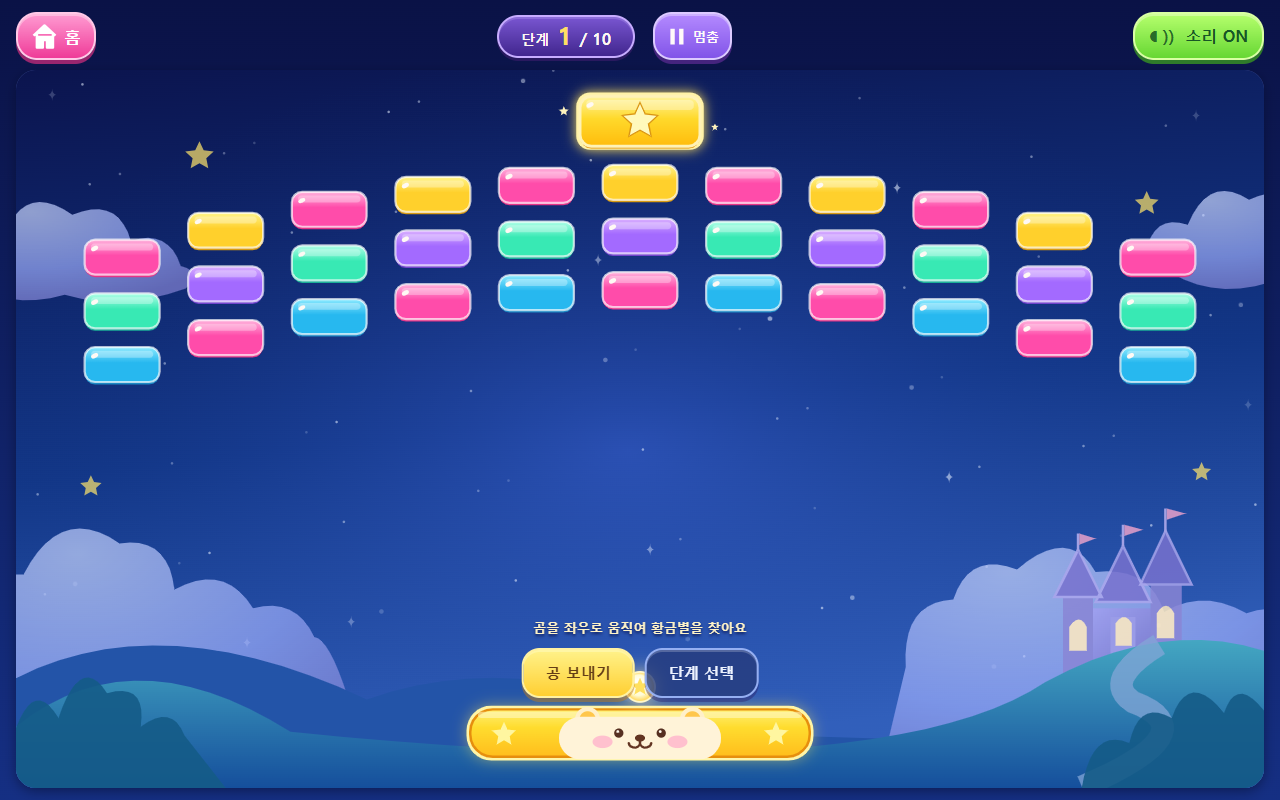
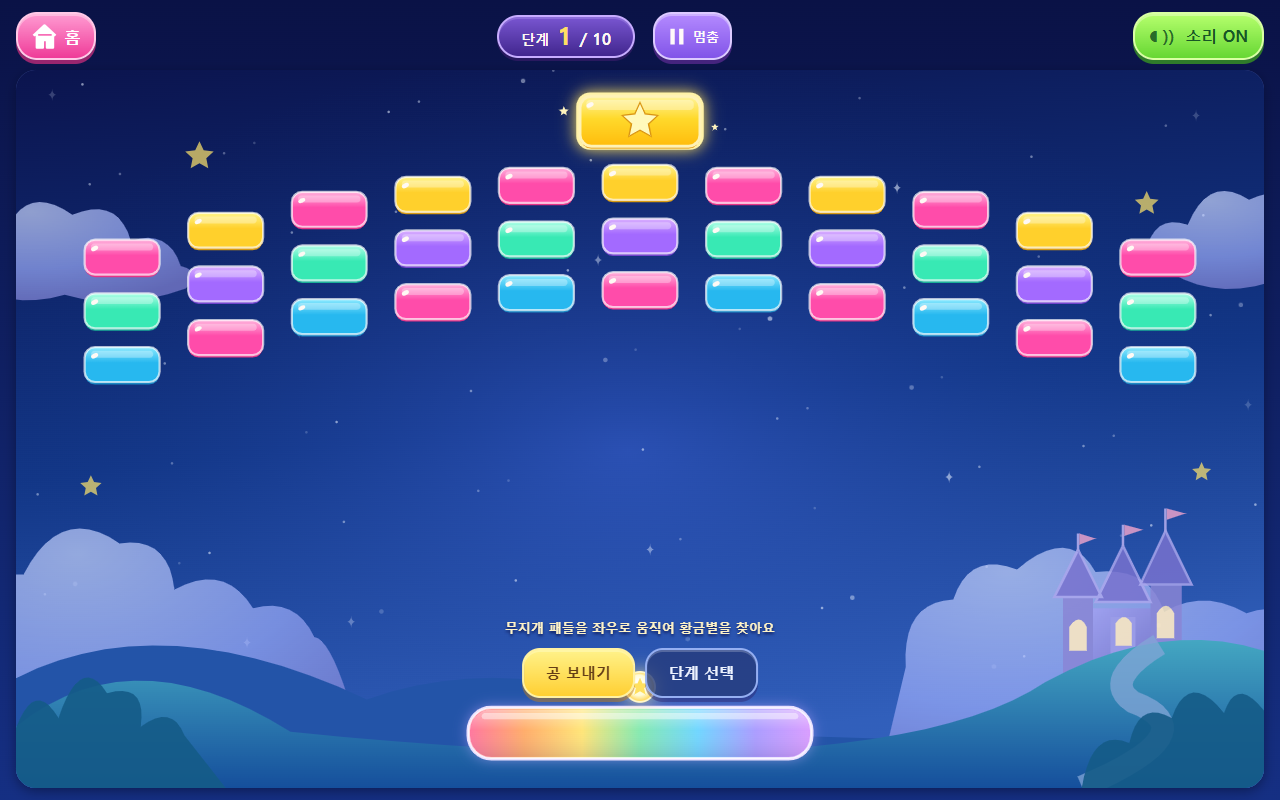
fix: mirror paddle bounce and use rainbow paddle

Changed region(s): [[0.3438, 0.875, 0.6562, 0.9688], [0.4062, 0.7812, 0.5938, 0.8125]]

diff --git a/src/games/brick-breaker/index.tsx b/src/games/brick-breaker/index.tsx
@@ -55,14 +55,14 @@ export default function BrickBreaker(){
  const stage=stages[active-1],toolbar=document.querySelector('.toolbar'),finished=active===stages.length&&phase==='cleared'
  return <section className="brick-game" aria-label="별빛 벽돌깨기">
  {toolbar&&createPortal(<div className="brick-toolbar"><span className="brick-stage-badge" aria-label={`현재 ${active}단계, 전체 ${stages.length}단계`}><span>단계</span> <strong>{active}</strong><small>/ {stages.length}</small></span><button className="brick-pause" onClick={pause} disabled={menu||phase==='cleared'} aria-label={phase==='paused'?'게임 재개':'일시정지'} aria-pressed={phase==='paused'}><svg viewBox="0 0 24 24" aria-hidden="true">{phase==='paused'?<path d="m7 3 15 9-15 9Z"/>:<path d="M5 3h5v18H5ZM15 3h5v18h-5Z"/>}</svg><span>{phase==='paused'?'계속':'멈춤'}</span></button></div>,toolbar)}
- <div className="brick-field" ref={host}><NightSky height={worldHeight}/><canvas ref={canvas} hidden={menu} tabIndex={menu?-1:0} role="application" aria-label={`${active}단계 ${stage.name}. 좌우 화살표로 곰을 움직이고 스페이스로 공을 보내요.`} aria-describedby="brick-instructions" data-stage={active} data-phase={phase} onPointerDown={down} onPointerMove={move} onPointerUp={up} onPointerCancel={e=>{if(drag.current?.id===e.pointerId)drag.current=null}} onKeyDown={e=>{if(['ArrowLeft','ArrowRight',' ','Escape'].includes(e.key)){e.preventDefault();if(e.key.startsWith('Arrow'))keys.current.add(e.key);else if(!e.repeat){if(e.key==='Escape'||engine.current.phase==='paused')pause();else sendBall()}}}} onKeyUp={e=>keys.current.delete(e.key)} onBlur={()=>keys.current.clear()}/>
+ <div className="brick-field" ref={host}><NightSky height={worldHeight}/><canvas ref={canvas} hidden={menu} tabIndex={menu?-1:0} role="application" aria-label={`${active}단계 ${stage.name}. 좌우 화살표로 무지개 패들을 움직이고 스페이스로 공을 보내요.`} aria-describedby="brick-instructions" data-stage={active} data-phase={phase} onPointerDown={down} onPointerMove={move} onPointerUp={up} onPointerCancel={e=>{if(drag.current?.id===e.pointerId)drag.current=null}} onKeyDown={e=>{if(['ArrowLeft','ArrowRight',' ','Escape'].includes(e.key)){e.preventDefault();if(e.key.startsWith('Arrow'))keys.current.add(e.key);else if(!e.repeat){if(e.key==='Escape'||engine.current.phase==='paused')pause();else sendBall()}}}} onKeyUp={e=>keys.current.delete(e.key)} onBlur={()=>keys.current.clear()}/>
  {menu?<div className="brick-selection"><header><div className="brick-logo-star"><Medal/></div><div><h1>별빛 벽돌깨기</h1><p>좋아하는 별빛길을 골라요</p></div></header><button autoFocus className="brick-primary brick-continue" onClick={()=>start(progress.current)}>{progress.completed.length===stages.length?'다시 별빛 여행':Object.values(progress.boards).some(ids=>ids.length)||progress.completed.length?'이어서 하기':'처음 시작하기'} · {progress.current}단계</button><div className="brick-stage-grid">{stages.map(s=><button key={s.id} className={'brick-stage-card'+(progress.completed.includes(s.id)?' completed':'')} onClick={()=>start(s.id)} aria-label={`${s.id}단계 ${s.name}${progress.completed.includes(s.id)?' · 완료':''}`}><span className="brick-card-number">{s.id}</span><Preview stage={s}/><strong>{s.name}</strong><small>{progress.completed.includes(s.id)?'별을 모았어요':s.difficulty}</small></button>)}</div><p className="brick-selection-note">황금별 벽돌을 맞히면 바로 완료! · 모든 단계를 골라 놀 수 있어요.</p>{!storageOk&&<p className="brick-storage-warning">지금은 기록을 저장할 수 없어요. 놀이는 계속할 수 있어요.</p>}</div>:
  <>
- {phase==='ready'&&<div className="brick-launch"><p>{misses?'괜찮아요! 한 번 더 통통!':'곰을 좌우로 움직여 황금별을 찾아요'}</p><div><button className="brick-primary" onClick={sendBall}>공 보내기</button><button className="brick-secondary" onClick={()=>setMenu(true)}>단계 선택</button></div></div>}
+ {phase==='ready'&&<div className="brick-launch"><p>{misses?'괜찮아요! 한 번 더 통통!':'무지개 패들을 좌우로 움직여 황금별을 찾아요'}</p><div><button className="brick-primary" onClick={sendBall}>공 보내기</button><button className="brick-secondary" onClick={()=>setMenu(true)}>단계 선택</button></div></div>}
  {phase==='paused'&&<div className="brick-shade"><div className="brick-dialog" onKeyDown={dialogKeys} role="dialog" aria-modal="true" aria-labelledby="brick-pause-title"><Medal/><h2 id="brick-pause-title">잠깐 쉬어 가요</h2><button autoFocus className="brick-primary" onClick={()=>{pause();canvas.current?.focus({preventScroll:true})}}>계속하기</button><button className="brick-secondary" onClick={()=>setMenu(true)}>단계 선택</button></div></div>}
  {phase==='cleared'&&<div className="brick-shade"><div className={'brick-dialog brick-celebration'+(finished?' finale':'')} onKeyDown={dialogKeys} role="dialog" aria-modal="true" aria-labelledby="brick-clear-title"><div className="brick-confetti" aria-hidden="true">{Array.from({length:16},(_,i)=><i key={i} style={{left:`${i*6+2}%`,animationDelay:`${i%4*.1}s`,background:['#ffe575','#ff9dd5','#8dffe1','#c2a0ff'][i%4]}}/>)}</div><Medal/>{finished&&<div className="brick-final-stars" aria-label={`${progress.completed.length}개의 단계를 완료했어요`}>{stages.map(s=><svg key={s.id} viewBox="0 0 24 24" aria-hidden="true"><Star x={12} y={12} r={10} fill={progress.completed.includes(s.id)?'#ffdf64':'#6877af'}/></svg>)}</div>}<h2 id="brick-clear-title">{finished?'마지막 별에 닿았어요!':'황금별을 찾았어요!'}</h2><p>{finished?'별빛 왕국에서 즐거운 여행을 했어요.':`${active}단계 완료! 다음 별도 만나 볼까요?`}</p>{finished?<button autoFocus className="brick-primary" onClick={()=>start(1)}>처음부터 다시 놀기</button>:<button autoFocus className="brick-primary" onClick={()=>start(active+1)}>다음 단계</button>}<button className="brick-secondary" onClick={()=>setMenu(true)}>단계 선택</button></div></div>}
  </>}
  </div>
- <p className="sr-only" id="brick-instructions">화면을 좌우로 끌면 곰이 움직여요. 공을 놓쳐도 다시 보낼 수 있어요. 키보드 좌우 화살표, 스페이스, Escape 키로도 놀 수 있어요.</p><span className="sr-only" role="status">{phase==='cleared'?`${active}단계를 완료했어요.`:phase==='paused'?'잠깐 멈췄어요.':misses&&phase==='ready'?'괜찮아요. 공을 다시 보내요.':''}{!storageOk?' 지금은 기록을 저장할 수 없어요.':''}</span>
+ <p className="sr-only" id="brick-instructions">화면을 좌우로 끌면 무지개 패들이 움직여요. 공을 놓쳐도 다시 보낼 수 있어요. 키보드 좌우 화살표, 스페이스, Escape 키로도 놀 수 있어요.</p><span className="sr-only" role="status">{phase==='cleared'?`${active}단계를 완료했어요.`:phase==='paused'?'잠깐 멈췄어요.':misses&&phase==='ready'?'괜찮아요. 공을 다시 보내요.':''}{!storageOk?' 지금은 기록을 저장할 수 없어요.':''}</span>
  </section>
 }

diff --git a/tests/bricks-engine.spec.ts b/tests/bricks-engine.spec.ts
@@ -20,8 +20,8 @@ test('gold immediately clears while normal bricks remain; normals alone never by
  const remaining=createEngine(stages[0],620,stages[0].bricks.filter(b=>!b.gold).map(b=>b.id));expect(remaining.bricks).toHaveLength(1);expect(remaining.phase).toBe('ready');launch(remaining);step(remaining,.05);expect(remaining.phase).toBe('playing')
  const all=createEngine(stages[0],620);all.phase='playing';all.bricks=[{id:'last',x:450,y:200,w:100,h:30,color:'pink',gold:false}];all.ball={x:500,y:260,vx:0,vy:-400,r:12};all.speed=400;step(all,.1);expect(all.phase).toBe('cleared');expect(all.clearReason).toBe('all')
 })
-test('paddle steers both ways, respects its exact width and prevents horizontal loops',()=>{
- for(const offset of [-.8,0,.8]){const e=createEngine(stages[0],620);e.bricks=[];e.phase='playing';e.speed=300;e.ball={x:e.paddle.x+offset*e.paddle.w/2,y:e.paddle.y-35,vx:0,vy:300,r:12};step(e,.15);expect(e.ball.vy).toBeLessThan(0);expect(Math.hypot(e.ball.vx,e.ball.vy)).toBeCloseTo(300);expect(Math.abs(e.ball.vy)).toBeGreaterThanOrEqual(300*.43-1e-8);if(offset)expect(Math.sign(e.ball.vx)).toBe(Math.sign(offset))}
+test('paddle mirrors incoming angle at every contact position without changing speed or horizontal direction',()=>{
+ for(const offset of [-.98,-.8,0,.8,.98])for(const vx of (Math.abs(offset)>.9?[0]:[-299,-180,0,180,299])){const e=createEngine(stages[0],620);e.bricks=[];e.phase='playing';e.speed=300;const vy=Math.sqrt(300**2-vx**2),time=.001;e.ball={x:e.paddle.x+offset*e.paddle.w/2-vx*time,y:e.paddle.y-12-vy*time,vx,vy,r:12};for(let i=0;i<120&&!e.events.includes('paddle');i++)step(e,1/120);expect(e.events).toContain('paddle');expect(e.ball.vx).toBeCloseTo(vx,10);expect(e.ball.vy).toBeCloseTo(-vy,10);expect(Math.atan2(e.ball.vx,-e.ball.vy)).toBeCloseTo(Math.atan2(vx,vy),10);expect(Math.hypot(e.ball.vx,e.ball.vy)).toBeCloseTo(300,10)}
  const outside=createEngine(stages[0],620);outside.bricks=[];outside.phase='playing';outside.ball={x:outside.paddle.x+outside.paddle.w/2+16,y:outside.paddle.y-20,vx:0,vy:300,r:12};outside.speed=300;step(outside,.1);expect(outside.ball.vy).toBeGreaterThan(0)
  const wall=createEngine(stages[0],620);wall.bricks=[];wall.phase='playing';wall.speed=300;wall.ball={x:985,y:200,vx:300,vy:.001,r:12};step(wall,.05);expect(wall.ball.vx).toBeLessThan(0);expect(Math.abs(wall.ball.vy)).toBeGreaterThan(100);expect(wall.ball.x).toBeLessThanOrEqual(988)
  for(const x of [-1000,2000]){movePaddle(wall,x);expect(wall.paddle.x-wall.paddle.w/2).toBeGreaterThanOrEqual(0);expect(wall.paddle.x+wall.paddle.w/2).toBeLessThanOrEqual(1000)}
@@ -38,7 +38,7 @@ test('all ten real layouts can clear through simulated paddle control without ed
  const reports:{stage:number;seconds:number;misses:number;remaining:number;reason:string|null}[]=[]
  for(const stage of stages){const e=createEngine(stage,620);let ticks=0;while(e.phase!=='cleared'&&ticks<120*240){
   if(e.phase==='ready')launch(e)
-  if(e.ball.vy>0){const time=Math.max(0,(e.paddle.y-e.ball.r-e.ball.y)/e.ball.vy),span=1000-2*e.ball.r,raw=e.ball.x-e.ball.r+e.ball.vx*time,wrapped=((raw%(2*span))+2*span)%(2*span),landing=e.ball.r+(wrapped>span?2*span-wrapped:wrapped),gold=e.bricks.find(b=>b.gold),target=gold?gold.x+gold.w/2:500,angle=Math.max(-.85,Math.min(.85,Math.atan((target-landing)/(e.paddle.y-70))));movePaddle(e,landing-angle/.94*e.paddle.w/2)}step(e,1/120);ticks++
+  if(e.ball.vy>0){const time=Math.max(0,(e.paddle.y-e.ball.r-e.ball.y)/e.ball.vy),span=1000-2*e.ball.r,raw=e.ball.x-e.ball.r+e.ball.vx*time,wrapped=((raw%(2*span))+2*span)%(2*span),landing=e.ball.r+(wrapped>span?2*span-wrapped:wrapped);movePaddle(e,landing)}step(e,1/120);ticks++
  }expect(e.phase,`stage ${stage.id}, ${ticks/120}s, misses ${e.misses}, remaining ${e.bricks.length}`).toBe('cleared');reports.push({stage:stage.id,seconds:Math.round(ticks/120*10)/10,misses:e.misses,remaining:e.bricks.length,reason:e.clearReason})}
  writeFileSync('docs/brick-breaker/simulation.json',JSON.stringify(reports,null,2))
 })

diff --git a/src/games/brick-breaker/render.ts b/src/games/brick-breaker/render.ts
@@ -14,11 +14,9 @@ export function render(ctx:CanvasRenderingContext2D,e:Engine,cssWidth:number,css
  const scale=cssWidth/1000;ctx.setTransform(1,0,0,1,0,0);ctx.clearRect(0,0,ctx.canvas.width,ctx.canvas.height);ctx.setTransform(dpr*scale,0,0,dpr*scale,0,0)
  for(const b of e.bricks)brick(ctx,b,time,reduced)
  if(!reduced)for(let i=0;i<e.trail.length;i+=2){const p=e.trail[i],f=(i+1)/e.trail.length;ctx.beginPath();ctx.arc(p.x,p.y,1+f*2.2,0,Math.PI*2);ctx.fillStyle=`rgba(255,244,189,${f*.65})`;ctx.fill()}
- const p=e.paddle,x=p.x-p.w/2,y=p.y;ctx.save();ctx.shadowBlur=14;ctx.shadowColor='#ffe85c70';rounded(ctx,x,y,p.w,p.h,20);ctx.fillStyle='#fff5a6';ctx.fill();ctx.shadowBlur=0
- const g=ctx.createLinearGradient(x,y,x,y+p.h);g.addColorStop(0,'#fff484');g.addColorStop(.4,'#ffdc2e');g.addColorStop(1,'#ffb91a');rounded(ctx,x+3,y+3,p.w-6,p.h-6,18);ctx.fillStyle=g;ctx.fill();ctx.strokeStyle='#e68e0d';ctx.lineWidth=2;ctx.stroke();rounded(ctx,x+9,y+5,p.w-18,5,3);ctx.fillStyle='#fff8c294';ctx.fill()
- for(const sx of [-1,1]){ctx.beginPath();ctx.arc(p.x+sx*42,y+11,10,0,Math.PI*2);ctx.fillStyle='#fff0c9';ctx.fill();ctx.beginPath();ctx.arc(p.x+sx*42,y+11,6.5,0,Math.PI*2);ctx.fillStyle='#ffc64a';ctx.fill();star(ctx,p.x+sx*(p.w/2-30),y+23,10,'#fff6a0')}
- rounded(ctx,p.x-65,y+9,130,34,20);ctx.fillStyle='#fff3d8';ctx.fill();ctx.fillStyle='#ffc0ce';for(const sx of [-1,1]){ctx.beginPath();ctx.ellipse(p.x+sx*30,y+29,8,5,0,0,Math.PI*2);ctx.fill();ctx.beginPath();ctx.arc(p.x+sx*17,y+22,3.7,0,Math.PI*2);ctx.fillStyle='#563021';ctx.fill();ctx.beginPath();ctx.arc(p.x+sx*17-.8,y+20.8,1.1,0,Math.PI*2);ctx.fillStyle='#fffaf0';ctx.fill();ctx.fillStyle='#ffc0ce'}
- ctx.beginPath();ctx.ellipse(p.x,y+26,4,2.8,0,0,Math.PI*2);ctx.fillStyle='#633522';ctx.fill();ctx.beginPath();ctx.moveTo(p.x,y+27);ctx.lineTo(p.x,y+31);ctx.bezierCurveTo(p.x-3,y+36,p.x-9,y+33,p.x-9,y+30);ctx.moveTo(p.x,y+31);ctx.bezierCurveTo(p.x+3,y+36,p.x+9,y+33,p.x+9,y+30);ctx.strokeStyle='#633522';ctx.lineWidth=1.9;ctx.lineCap='round';ctx.stroke();ctx.restore()
+ const p=e.paddle,x=p.x-p.w/2,y=p.y;ctx.save();ctx.shadowBlur=12;ctx.shadowColor='#bca4ff80';rounded(ctx,x,y,p.w,p.h,20);ctx.fillStyle='#e9e0ff';ctx.fill();ctx.shadowBlur=0
+ const rainbow=ctx.createLinearGradient(x,y,x+p.w,y);['#ff719f','#ffab67','#ffe475','#82e9af','#6dd5ff','#a99aff','#db9bff'].forEach((color,i)=>rainbow.addColorStop(i/6,color));rounded(ctx,x+2,y+2,p.w-4,p.h-4,18);ctx.fillStyle=rainbow;ctx.fill();ctx.strokeStyle='#ffffffb8';ctx.lineWidth=1.5;ctx.stroke()
+ const sheen=ctx.createLinearGradient(x,y,x,y+p.h);sheen.addColorStop(0,'#ffffff80');sheen.addColorStop(.45,'#ffffff08');sheen.addColorStop(1,'#493a772e');rounded(ctx,x+3,y+3,p.w-6,p.h-6,17);ctx.fillStyle=sheen;ctx.fill();rounded(ctx,x+12,y+6,p.w-24,5,3);ctx.fillStyle='#ffffff70';ctx.fill();ctx.restore()
  const ball=e.ball;ctx.save();ctx.shadowColor='#ffec9d';ctx.shadowBlur=reduced?12:20;const glow=ctx.createRadialGradient(ball.x-3,ball.y-4,1,ball.x,ball.y,ball.r);glow.addColorStop(0,'#fffefa');glow.addColorStop(.65,'#fffbd6');glow.addColorStop(1,'#ffd34b');ctx.beginPath();ctx.arc(ball.x,ball.y,ball.r,0,Math.PI*2);ctx.fillStyle=glow;ctx.fill();ctx.shadowBlur=0;ctx.strokeStyle='#fff7c9';ctx.lineWidth=1.5;ctx.stroke();star(ctx,ball.x,ball.y,ball.r*.62,'#ffe05e');ctx.restore()
  if(!reduced)for(const particle of e.particles){ctx.globalAlpha=Math.max(0,Math.min(1,particle.life*2));star(ctx,particle.x,particle.y,particle.color==='gold'?4:2.6,particle.color==='gold'?'#fff1a4':colors[particle.color as BrickColor]?.top??'#fff6ce')}ctx.globalAlpha=1
  void cssHeight

diff --git a/src/games/brick-breaker/engine.ts b/src/games/brick-breaker/engine.ts
@@ -44,9 +44,11 @@ export function step(e:Engine,dt:number){
   if(!hit){ball.x+=vx*left;ball.y+=vy*left;left=0;break}
   ball.x+=vx*hit.t;ball.y+=vy*hit.t;left-=hit.t
   if(hit.kind==='brick'&&hit.brick){const brick=hit.brick;e.bricks=e.bricks.filter(b=>b.id!==brick.id);e.removed.push(brick.id);e.events.push(brick.gold?'gold':'brick');for(let i=0;i<(brick.gold?18:6);i++){const a=i*2.399963;e.particles.push({x:brick.x+brick.w/2,y:brick.y+brick.h/2,vx:Math.cos(a)*(70+i*3),vy:Math.sin(a)*80-30,life:brick.gold?.9:.45,color:brick.color})}e.particles=e.particles.slice(-100);if(brick.gold||e.bricks.length===0){e.phase='cleared';e.clearReason=brick.gold?'gold':'all';break}}
-  if(hit.kind==='paddle'){const offset=Math.max(-1,Math.min(1,(ball.x-e.paddle.x)/(e.paddle.w/2))),angle=offset*.94;ball.vx=Math.sin(angle)*e.speed;ball.vy=-Math.cos(angle)*e.speed;ball.y=e.paddle.y-r-.2;e.events.push('paddle')}
+  // The paddle is a horizontal reflector: preserve incoming speed and horizontal
+  // direction at every contact position, including its forgiving rounded ends.
+  if(hit.kind==='paddle'){ball.vy=-ball.vy;ball.y=e.paddle.y-r-.2;e.events.push('paddle')}
   else{const dot=ball.vx*hit.nx+ball.vy*hit.ny;ball.vx-=2*dot*hit.nx;ball.vy-=2*dot*hit.ny;ball.x+=hit.nx*.05;ball.y+=hit.ny*.05}
-  safeDirection(e)
+  if(hit.kind!=='paddle')safeDirection(e)
  }
  e.trail.push({x:e.ball.x,y:e.ball.y});if(e.trail.length>26)e.trail.shift()
  if(e.ball.y-e.ball.r>e.height){e.misses++;e.events.push('miss');e.phase='ready';e.ball.vx=0;e.ball.vy=0;e.trail=[];movePaddle(e,e.paddle.x)}
